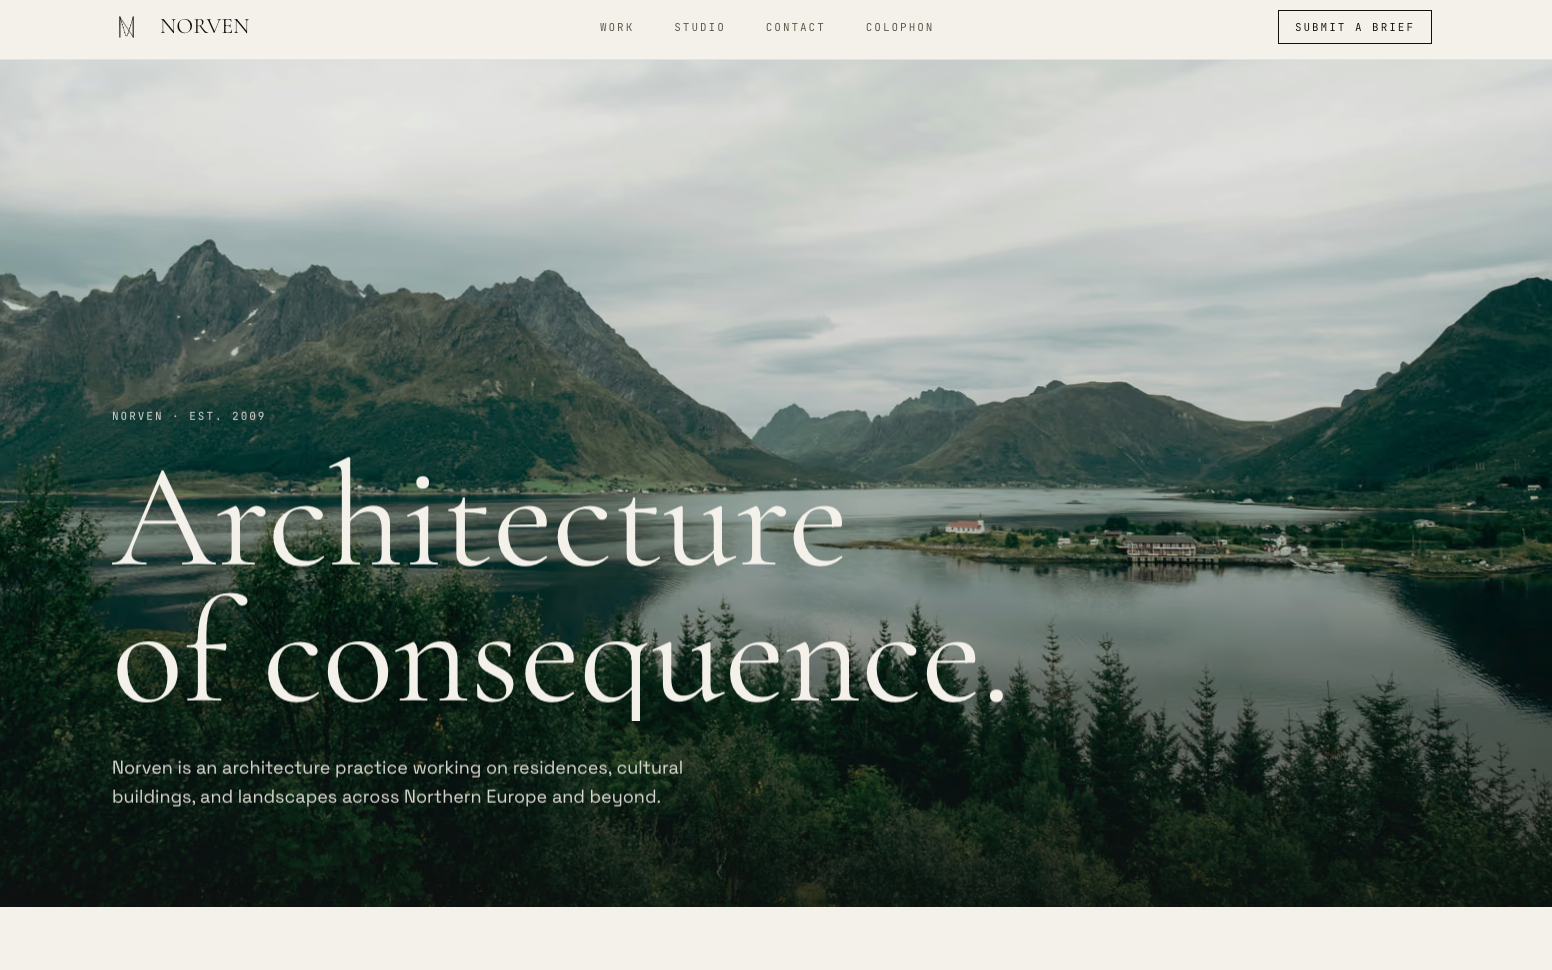
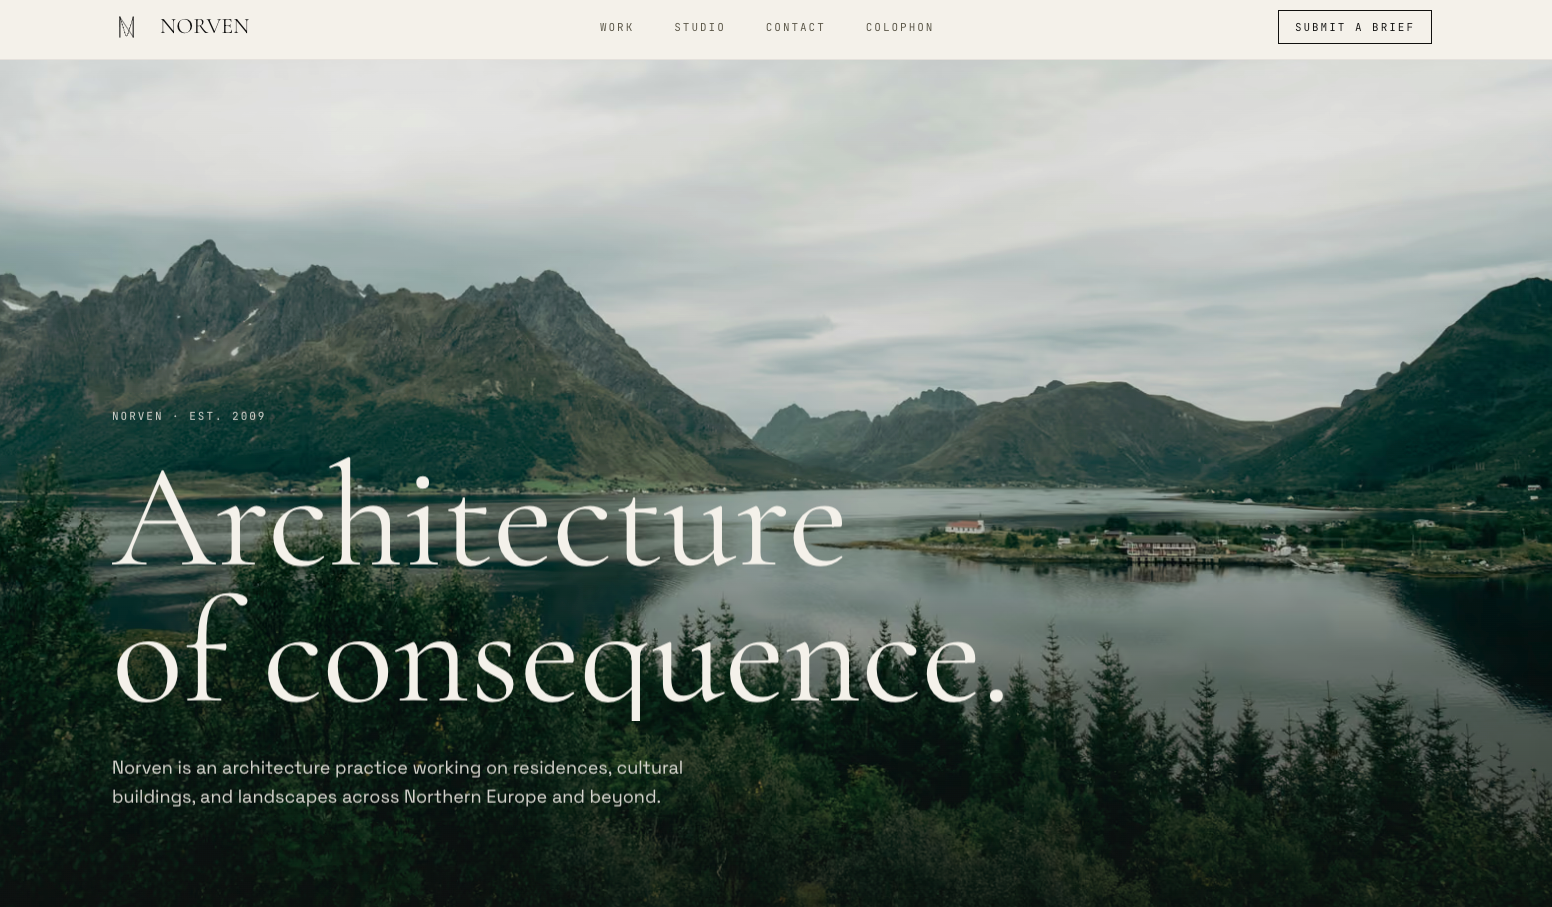
feat: set every screenshot on a stage, never wider than its pixels allow
The captures are 1x screenshots, about 1,000 to 1,700 pixels across. The case
study ran the first one across the whole window, so on a 1440 laptop with a 2x
screen every pixel was stretched to nearly three and the type inside the
picture went soft. In the work list they ran to the edges of their cell, where
a white website on a white page had no edge at all.

Each one is now a plate on a stage: a flat field one step off the section it
sits on, with the capture inset and edged with a hairline. On the case study
the stage is a band that still runs edge to edge, since it needs no pixels,
and the capture on it is never wider than two thirds of its own width. A
sharper capture lifts that cap by itself, with no change to the code.

The stage is a token that each section re-points, the way the muted ink
already is, because a colour mixed from the field at the root would only ever
see the root's white.

The row no longer fills grey on hover. That did nothing on the home page's
grey band and washed the stage out on white. The picture zooms inside its
frame and the title underlines instead.

The Norven capture is re-cut where its hero ends, so the cream of the next
section no longer shows as a strip along the bottom.

diff --git a/src/styles/global.css b/src/styles/global.css
@@ -88,6 +88,21 @@
      into this. Ink on the light fields, so the reverse of it is the ground. */
   --color-section-field: var(--color-paper);
 
+  /* The ground a screenshot is mounted on: one step off the field, never the
+     field itself. A capture of a white website laid straight onto a white page
+     has no edge, and one laid onto grey reads as a hole cut in it. Set on its
+     own step, it reads as a plate — the same move the pill button makes when
+     its circle is a step from its fill rather than the same colour.
+
+     Grey on white here, and `Section` flips it to white on grey. It is a
+     re-pointed token rather than a colour mixed from `--color-section-field`
+     on purpose: a custom property that refers to another is resolved where it
+     is declared, so a mix written here would see this root's paper on every
+     field and never the one it is actually on.
+
+     Captions sit on it in the muted ink: 4.68:1 on the grey, 5.10:1 on white. */
+  --color-section-stage: var(--color-surface);
+
   /* --- Lime --------------------------------------------------------------
      Lime is a surface, not a text colour. On white it measures 2.06:1 at
      step 500 and still fails at 600 (2.50) and 700 (3.96). Only step 800

diff --git a/src/lib/screenshot.ts b/src/lib/screenshot.ts
@@ -1,0 +1,23 @@
+/**
+ * How wide a screenshot is allowed to be shown.
+ *
+ * A capture of a website is only as sharp as the screen it was taken on, and
+ * most are taken at 1× — about 1,000 to 1,700 pixels across. Laid across a
+ * 1440 window on a 2× screen, that is every pixel stretched to nearly three,
+ * and the text inside the picture goes soft in a way that reads as careless
+ * rather than as low resolution.
+ *
+ * So a screenshot is never shown wider than two thirds of its own width in
+ * pixels. On a 2× screen that is a stretch of a third, which is about where
+ * type in a capture of an interface stops looking crisp; on a 1× screen it is
+ * sharper than the source. The cap follows the file, so a sharper capture
+ * lifts it with no change here.
+ */
+
+/** Source pixels per CSS pixel at the widest a screenshot may be shown. */
+export const SCREENSHOT_DENSITY = 1.5
+
+/** The widest, in CSS pixels, a capture this many pixels across may appear. */
+export function screenshotMaxWidth(pixelWidth: number): number {
+  return Math.round(pixelWidth / SCREENSHOT_DENSITY)
+}

diff --git a/src/lib/screenshot.test.ts b/src/lib/screenshot.test.ts
@@ -1,0 +1,19 @@
+import { describe, expect, it } from "vitest"
+
+import { SCREENSHOT_DENSITY, screenshotMaxWidth } from "./screenshot"
+
+describe("screenshotMaxWidth", () => {
+  it("allows two thirds of the capture's width", () => {
+    expect(SCREENSHOT_DENSITY).toBe(1.5)
+    expect(screenshotMaxWidth(1038)).toBe(692)
+    expect(screenshotMaxWidth(1708)).toBe(1139)
+  })
+
+  it("lifts the cap when the capture is sharper", () => {
+    expect(screenshotMaxWidth(2880)).toBe(1920)
+  })
+
+  it("rounds to a whole pixel", () => {
+    expect(Number.isInteger(screenshotMaxWidth(1603))).toBe(true)
+  })
+})
